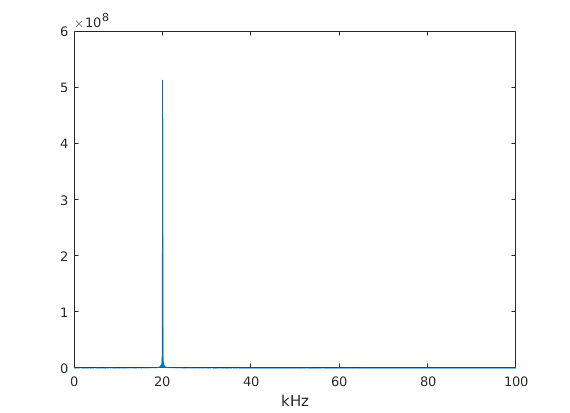
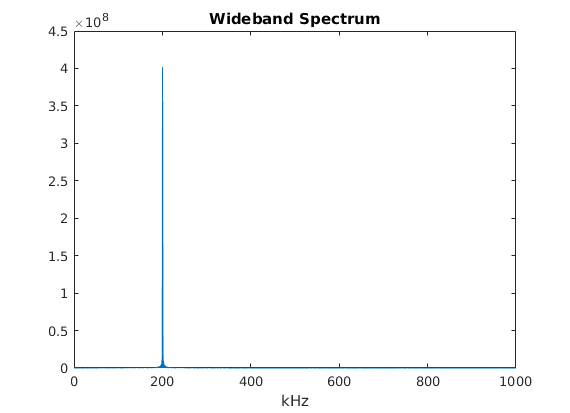
Updated plots (added label + title)

diff --git a/src/transmitwFreq.m b/src/transmitwFreq.m
@@ -93,6 +93,7 @@ dataFilter = filter(bFilt, data);
 
 figure(1)
 plot(real(dataFilter))
+title('Recieved Signal');
 
 fftData = abs(fft(dataFilter, Fs));
 % 'Carrier' is the max freq
@@ -117,25 +118,34 @@ figure(2)
 low = 1;
 high = 1e6;
 
-freqs = 1000.*(low/Fs:1/Fs:high/Fs);
+freqs = 1e4.*(low/Fs:1/Fs:high/Fs);
 plot(freqs,fftData(low:high))
 xlabel('kHz');
+title('Wideband Spectrum');
 
 figure(3);
 low = lowFreq-1e3;
 high = highFreq+1e3;
 
-x = (1000/Fs).*[lowFreq highFreq];
+x = (1e4/Fs).*[lowFreq highFreq];
 y = [fftData(lowFreq) fftData(highFreq)];
 
 
-freqs = 1000.*(low/Fs:1/Fs:high/Fs);
+freqs = 1e4.*(low/Fs:1/Fs:high/Fs);
 plot(freqs, fftData(low:high))
 hold on
 scatter(x, y, 100)
+a = x';
+b = num2str(a);
+c = strcat(b, [' kHz';' kHz']);
+d = cellstr(c);
+
+dx = 0.05; dy = 0.1; % displacement so the text does not overlay the data points
+
+text(x+dx, y+dy, d);
 hold off
 
 xlabel('kHz');
-
+title('Narrowband Spectrum');
 
 clear sdr;
